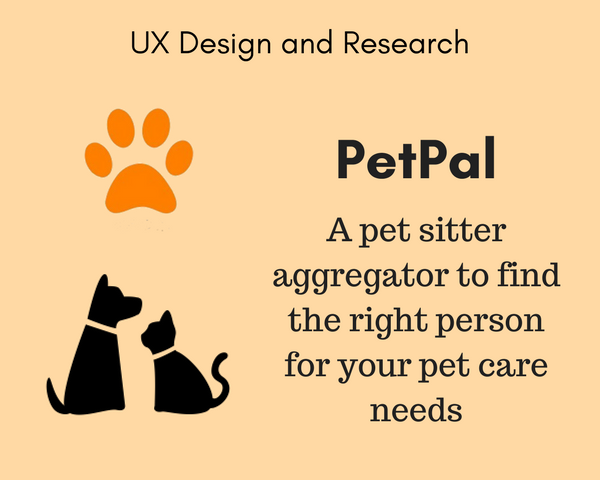
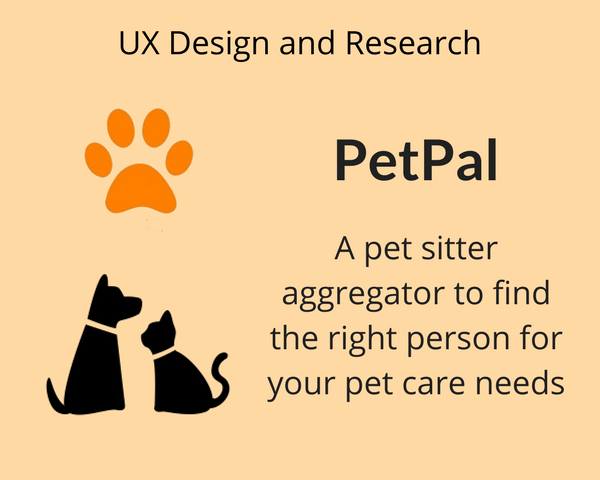
Niit project

Changed region(s): [[0.45, 0.4375, 0.96, 0.875], [0.18, 0.0625, 0.81, 0.125], [0.54, 0.2812, 0.84, 0.375]]

diff --git a/niit.html b/niit.html
@@ -1,0 +1,252 @@
+<!DOCTYPE HTML>
+<!--
+	Twenty by HTML5 UP
+	html5up.net | @ajlkn
+	Free for personal and commercial use under the CCA 3.0 license (html5up.net/license)
+-->
+<html>
+
+<head>
+	<title>NIIT Tech</title>
+	<meta charset="utf-8" />
+	<meta name="viewport" content="width=device-width, initial-scale=1" />
+	<!--[if lte IE 8]><script src="assets/js/ie/html5shiv.js"></script><![endif]-->
+	<link rel="shortcut icon" href="/favicon.ico" type="image/x-icon">
+	<!-- Resource style -->
+	<link rel="stylesheet" href="assets/css/main.css" />
+	<!--<link rel="stylesheet" href="vertical-timeline/css/reset.css">  CSS reset -->
+	<!---Lightbox-->
+	<script src="assets/js/jquery.min.js"></script>
+	<script src="https://unpkg.com/scrollreveal@3.3.2/dist/scrollreveal.min.js"></script>
+	<link href="//cdn.rawgit.com/noelboss/featherlight/1.6.1/release/featherlight.min.css" type="text/css" rel="stylesheet" />
+	<script src="//cdn.rawgit.com/noelboss/featherlight/1.6.1/release/featherlight.min.js" type="text/javascript" charset="utf-8"></script>
+
+	<!-- Modernizr -->
+	<!--[if lte IE 8]><link rel="stylesheet" href="assets/css/ie8.css" /><![endif]-->
+	<!--[if lte IE 9]><link rel="stylesheet" href="assets/css/ie9.css" /><![endif]-->
+</head>
+
+<body class="contact">
+	<div id="page-wrapper">
+
+		<!-- Header -->
+		<header id="header">
+			<h1 id="logo"><a href="index.html">Pratik<span> Nalawade</span></a></h1>
+			<nav id="nav">
+				<ul>
+					<li><a href="index.html">Home</a></li>
+					<li><a href="index.html">Skills</a></li>
+					<li class="current"><a href="index.html">Portfolio</a></li>
+					<li><a href="index.html#contact">Contact</a></li>
+				</ul>
+			</nav>
+		</header>
+
+	<section id="banner" style="background-image: url(assets/css/images/light-bl.svg), url(assets/css/images/light-br.svg), url(assets/css/images/overlay.png), url(images/niit/niit_banner.jpg);">
+		<div class="inner">
+
+			<header>
+				<h2>NIIT Tech</h2>
+			</header>
+			<p>	Airline Application<br>Proof of concept</p>
+			<footer>
+				<ul class="buttons vertical">
+					<li><a href="#main" class="button fit scrolly">Design Process</a></li>
+				</ul>
+			</footer>
+
+		</div>
+</section>
+
+		<!-- Main -->
+		<article id="main">
+			<!--<footer>
+        <ul class="buttons vertical" style="padding-left: 40%">
+          <li style="max-width:20%" ><a href="#start" class="button fit scrolly"><span class="icon fa-angle-double-down" style="font-size:2em"></span></a></li>
+        </ul>
+      </footer>-->
+      <br>
+      <span id="start"></span>
+			<!-- Overview -->
+			<section class="wrapper style3 container special">
+				<header class="major">
+					<h2><strong>Overview</strong></h2>
+				</header>
+				<div class="row">
+					<div class="12u 12u(narrower)">
+						<h4 class="pagetitle" style="text-align:left">Problem</h4>
+						<div class="row">
+						<div  class="7u 12u(narrower)">
+						<p style="text-align:justify" >
+							This is proof of concept of an airline application for a South American airline. Under NDA all branding elements and information that can identify the client have been replaced. The airline's services were primarily accessed through their website. Although they had a mobile application, it was not a native application and rendered the original website in a mobile format.
+							This approach had really bad user experience as none of the mobile interactions (swipe, double tap) were utilized neither were the interactive elements designed to adjust to small mobile screens. The objective of this initiative was to provide a native application that provided the best user experience for mobile users
+						</p></div>
+						<div class="5u 12u(narrower)">
+							<img  src="images/niit/nativeapps.png" style="max-width:95%"></img>
+						</div>
+					</div>
+					</div>
+				</div>
+				<div class="row">
+					<div class="12u 12u(narrower)">
+						<h4 class="pagetitle" style="text-align:left">My Role</h4>
+						<p style="text-align:justify">
+							<b>Interaction Designer -</b> Involved in creating journey map and lo-fi prototype. Lead designer for high fidelity prototype <br> Low-fi prototype was created in proto.io while hi-fi was created using Adobe creative suite with invision for interaction.
+							Dev handoff was done in Zeplin.
+						</p>
+					</div>
+				</div>
+			</section>
+			<!-- Research -->
+			<section class="wrapper style3 container special" >
+
+				<header class="major">
+					<h2><strong>Research</strong></h2>
+				</header>
+
+				<div class="row">
+					<div class="12u 12u(narrower)">
+						<section>
+							<h4 class="pagetitle">Journey Map</h4>
+							<p style="text-align:justify">
+								As part of NIIT Tech's offering they have consulted and designed for multiple European and American Airlines.
+                I sat down with subject matter experts, consultants working in the airline industry to gain insight into the industry. Based on the user data provided by the consultants a journey map was created for a typical vacationer.
+							</p>
+							<p>
+                <div class="row">
+                  <div class="12u 12u(narrower)">
+                    <img src="images/niit/Journey.png" style="max-width:95%"></img>
+                  </div>
+                </div>
+							</p>
+						</section>
+					</div>
+				</div>
+
+			</section>
+
+			<section class="wrapper style3 container special" style="text-align:left">
+
+				<header class="major" >
+					<h2><strong>Design</strong></h2>
+				</header>
+				<div class="row">
+					<div class="6u 12u(narrower)" style="text-align:center;">
+						<a href="images/niit/Flight_search_pixel.png" class="image" data-featherlight='image'><img src = "images/niit/Flight_search_pixel.png" style="max-width:60%;"/></a>
+					</div>
+					<div class="6u 12u(narrower)">
+						<section style="padding-top:20%">
+								<h3 class="pagetitle">Flight Search</h3>
+									<p style="text-align:justify">
+										The flight search page was redesigned to provide a better user experience on a mobile screen <br>
+
+										1. All screens in the application including the flight search screen have only 1 primary call-to-action unlike the multiple call-to-actions in the previous design
+										<br>
+										2. Hamburger menu was replaced with a tab styled menu so that none of the functions are hidden from the user
+										<br>
+										3. The flight search screen was decluttered to show the most important information to user</p>
+						</section>
+					</div>
+				</div>
+
+				<div class="row">
+					<div class="6u 12u(narrower)" style="text-align:center;">
+						<a href="images/niit/Flight_credit_pixel.png" class="image" data-featherlight='image'><img src = "images/niit/Flight_credit_pixel.png" style="max-width:60%"/></a>
+					</div>
+					<div class="6u 12u(narrower)">
+						<section style="padding-top:10%">
+								<h3 class="pagetitle">Ancillary services</h3>
+									<p style="text-align:justify">
+										Ancillary services offer passengers services other that flight booking or items covered under your ticket. These services include in-flight entertainment, meals during the journey, booking cabs or hotel rooms after you have reached the destination.
+										<br><br>
+										Apart from being an additional source of revenue for the airlines, these services create strong loyalty among the customers when linked with flyer miles.
+										<br><br>
+										It also improves the customer experience by not only meeting their in-flight needs like buying meals and shopping but also taking care of their post-travel needs by allowing passengers to book cabs and hotels while they are traveling.</p>
+						</section>
+					</div>
+				</div>
+
+				<div class="row">
+					<div class="6u 12u(narrower)" style="text-align:center;">
+						<a href="images/niit/Flight_payment_pixel.png" class="image" data-featherlight='image'><img src = "images/niit/Flight_payment_pixel.png" style="max-width:60%"/></a>
+					</div>
+					<div class="6u 12u(narrower)">
+						<section style="padding-top:30%;">
+								<h3 class="pagetitle">Mobile receipts</h3>
+									<p style="text-align:justify">
+									Based on the market analysis of the South American airline, their user's used a variety of payment methods with direct bank transactions being the most used method.
+									To aid direct bank transactions we created mobile receipts which can be shown to the bank teller to complete the transaction.</p>
+						</section>
+					</div>
+				</div>
+
+				<div class="row">
+					<div class="6u 12u(narrower)" style="text-align:center;">
+						<a href="images/niit/Flight_chat_2_pixel.png" class="image" data-featherlight='image'><img src = "images/niit/Flight_chat_2_pixel.png" style="max-width:60%"/></a>
+					</div>
+					<div class="6u 12u(narrower)">
+						<section  style="padding-top:30%;">
+								<h3 class="pagetitle">Notifications and chatbot</h3>
+									<p style="text-align:justify">
+									Integration of a chatbot to take care of common pre-flight tasks can relieve user anxiety. Users are checked in before the flight and they get their mobile boarding passes which can be accessed through the application. Users also get a reminder from the application to carry their documents like passport and visa.
+									Users can ask basic queries about weather conditions at the destination or their flight status.</p>
+						</section>
+					</div>
+				</div>
+
+				<div class="row">
+					<div class="6u 12u(narrower)" style="text-align:center;">
+						<a href="images/niit/Flight_wizard_pixel.png" class="image" data-featherlight='image'><img src = "images/niit/Flight_wizard_pixel.png" style="max-width:60%"/></a>
+					</div>
+					<div class="6u 12u(narrower)">
+						<section style="padding-top:30%;">
+								<h3 class="pagetitle">Document Wizard</h3>
+									<p style="text-align:justify">
+									The country in which the airline operates is seen as a vacation destination so they get a lot of travelers from other countries. Most of these travelers would require valid visa and passport. The wizard determines these requirements based on the user's nationality.
+									This improves the user's experience in planning a trip and getting the right set of documents to visit the country</p>
+						</section>
+					</div>
+				</div>
+
+	</section>
+
+		</article>
+
+		<!-- Footer -->
+		<footer id="footer">
+
+			<ul class="icons">
+				<li><a href="https://twitter.com/prats_09" class="icon circle fa-twitter"><span class="label">Twitter</span></a></li>
+				<li><a href="https://www.facebook.com/pratik.nalawade.7" class="icon circle fa-facebook"><span class="label">Facebook</span></a></li>
+				<li><a href="https://www.linkedin.com/in/pratiknalawade" class="icon circle fa-linkedin"><span class="label">LinkedIn</span></a></li>
+				<li><a href="https://github.com/prats007" class="icon circle fa-github"><span class="label">Github</span></a></li>
+			</ul>
+
+			<ul class="copyright">
+				<li>&copy; Pratik Nalawade</li>
+				<li>Design: <a href="http://html5up.net">HTML5 UP</a></li>
+			</ul>
+
+		</footer>
+
+	</div>
+
+	<!-- Scripts -->
+	<script src="assets/js/jquery.min.js"></script>
+	<script src="assets/js/jquery.dropotron.min.js"></script>
+	<script src="assets/js/jquery.scrolly.min.js"></script>
+	<script src="assets/js/jquery.scrollgress.min.js"></script>
+	<script src="assets/js/skel.min.js"></script>
+	<script src="assets/js/util.js"></script>
+	<!--[if lte IE 8]><script src="assets/js/ie/respond.min.js"></script><![endif]-->
+	<script src="assets/js/main.js"></script>
+	<script src="vertical-timeline/js/main.js"></script>
+	<!-- Resource jQuery -->
+	<script type="text/javascript">
+		window.sr = ScrollReveal();
+		//sr.reveal('.style3');
+		//sr.reveal('section');
+	</script>
+</body>
+
+</html>

diff --git a/index.html b/index.html
@@ -73,7 +73,7 @@
 				<header class="major">
 					<h2><strong>About Me</strong></h2>
 				</header><div class="row">
-				<img src="images/profile.jpg" class="image 3u 12u(narrower)"></img>
+				<img src="images/avatar@2x.png" class="image 3u 12u(narrower)"></img>
 					<p style="font-size:1.3em;margin-top:2em" class="9u 12u(narrower)">I am a User Experience Designer with 3 years of experience in working with consulting firms and design agencies. I strive to create intuitive and meaningful digital experiences by leveraging my skills in Computer Science and Design. I have expertise in rapid prototyping, design ideation, and usability testing.</p>
 				 </div></section>
 			<!-- Three -->
@@ -87,18 +87,18 @@
 					<div class="6u 12u(narrower)">
 
 						<section>
-							<a href="onecard.html" class="image featured"><img src="images/4.png" alt="onecard" style="max-width:80%;margin-left:10%"/></a>
+							<a href="niit.html" class="image featured"><img src="images/5.png" alt="onecard" style="max-width:80%;margin-left:10%"/></a>
 							<header>
-								<h3><a href="onecard.html" class="button">One Card</a></h3>
+								<h3><a href="niit.html" class="button">NIIT</a></h3>
 							</header>
 						</section>
 
 					</div>
 					<div class="6u 12u(narrower)">
 						<section>
-							<a href="seek.html" class="image featured"><img src="images/3.png" alt="seek" style="max-width:80%;margin-left:10%"/></a>
+							<a href="onecard.html" class="image featured"><img src="images/4.png" alt="onecard" style="max-width:80%;margin-left:10%"/></a>
 							<header>
-								<h3><a href="seek.html" class="button">Seek</a></h3>
+								<h3><a href="onecard.html" class="button">One Card</a></h3>
 							</header>
 						</section>
 
@@ -108,22 +108,32 @@
 					<div class="6u 12u(narrower)">
 
 						<section >
-							<a href="petpal.html" class="image featured"><img src="images/2.png" alt="petpal" style="max-width:80%;margin-left:10%"/></a>
+							<a href="seek.html" class="image featured"><img src="images/3.png" alt="seek" style="max-width:80%;margin-left:10%"/></a>
 							<header>
-								<h3><a href="petpal.html" class="button">Pet Pal</a></h3>
+								<h3><a href="seek.html" class="button">Seek</a></h3>
 							</header>
 						</section>
 
 					</div>
 					<div class="6u 12u(narrower)">
 						<section>
-								<a href="doublemap.html" class="image featured"><img src="images/1.png" alt="doublemap" style="max-width:80%;margin-left:10%"/></a>
+							<a href="petpal.html" class="image featured"><img src="images/2.png" alt="petpal" style="max-width:80%;margin-left:10%"/></a>
 							<header>
-								<h3><a href="doublemap.html" class="button">DoubleMap</a></h3>
+								<h3><a href="petpal.html" class="button">Pet Pal</a></h3>
 							</header>
 						</section>
 					</div>
 				</div>
+
+				<div class="row">
+					<div class="6u 12u(narrower)">
+
+						<section >
+							<a href="doublemap.html" class="image featured"><img src="images/1.png" alt="doublemap" style="max-width:80%;margin-left:10%"/></a>
+						<header>
+							<h3><a href="doublemap.html" class="button">DoubleMap</a></h3>
+						</header>
+						</section>
 
 			</section>
 

diff --git a/assets/css/main.css b/assets/css/main.css
@@ -1,6 +1,8 @@
 @import url("font-awesome.min.css");
 @import url("https://fonts.googleapis.com/css?family=Lato:300,400,900");
 @import url('https://fonts.googleapis.com/css?family=Roboto:300,400,900');
+@import url('https://fonts.googleapis.com/css?family=Open+Sans:300,400,900');
+
 /*
 	Twenty by HTML5 UP
 	html5up.net | @ajlkn
@@ -1567,7 +1569,7 @@
 
 	body, input, select, textarea {
 		color: #212b31;
-		font-family: 'Roboto', sans-serif;
+		font-family: 'Open Sans', sans-serif;
 		font-size: 15pt;
 		font-weight: 300;
 		letter-spacing: 0.025em;
